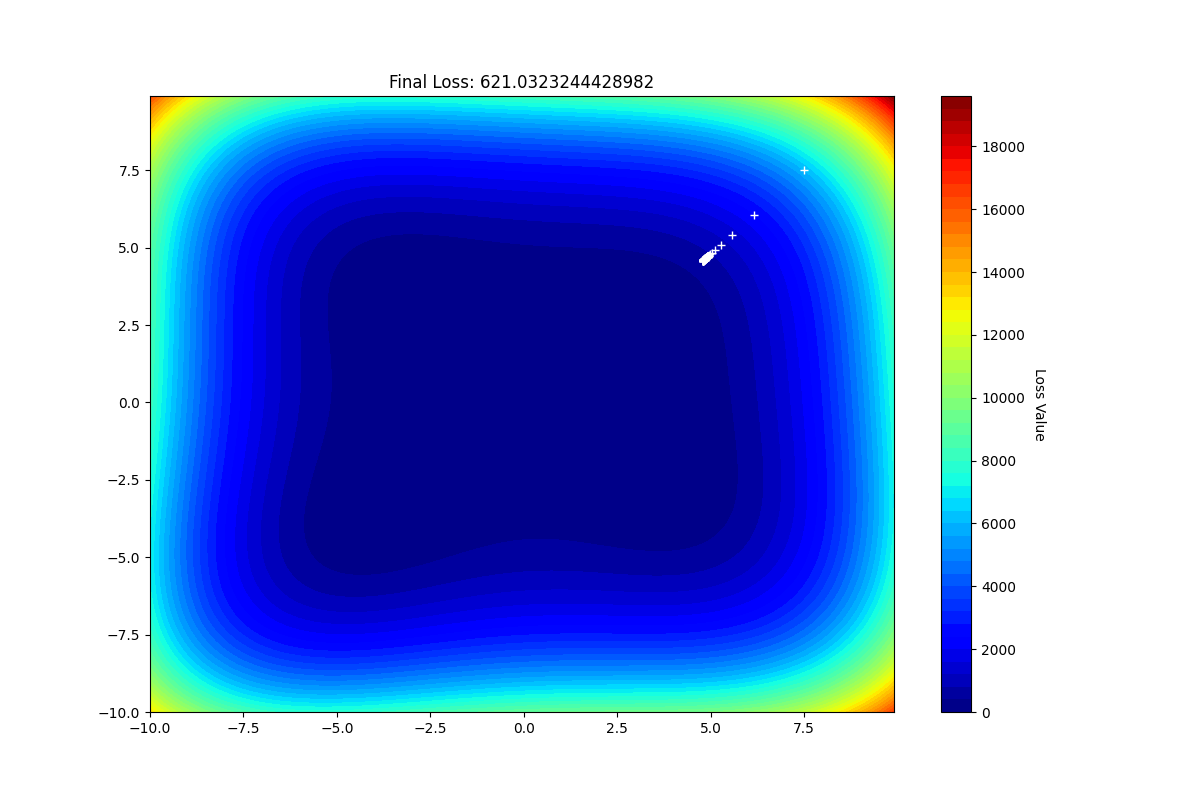
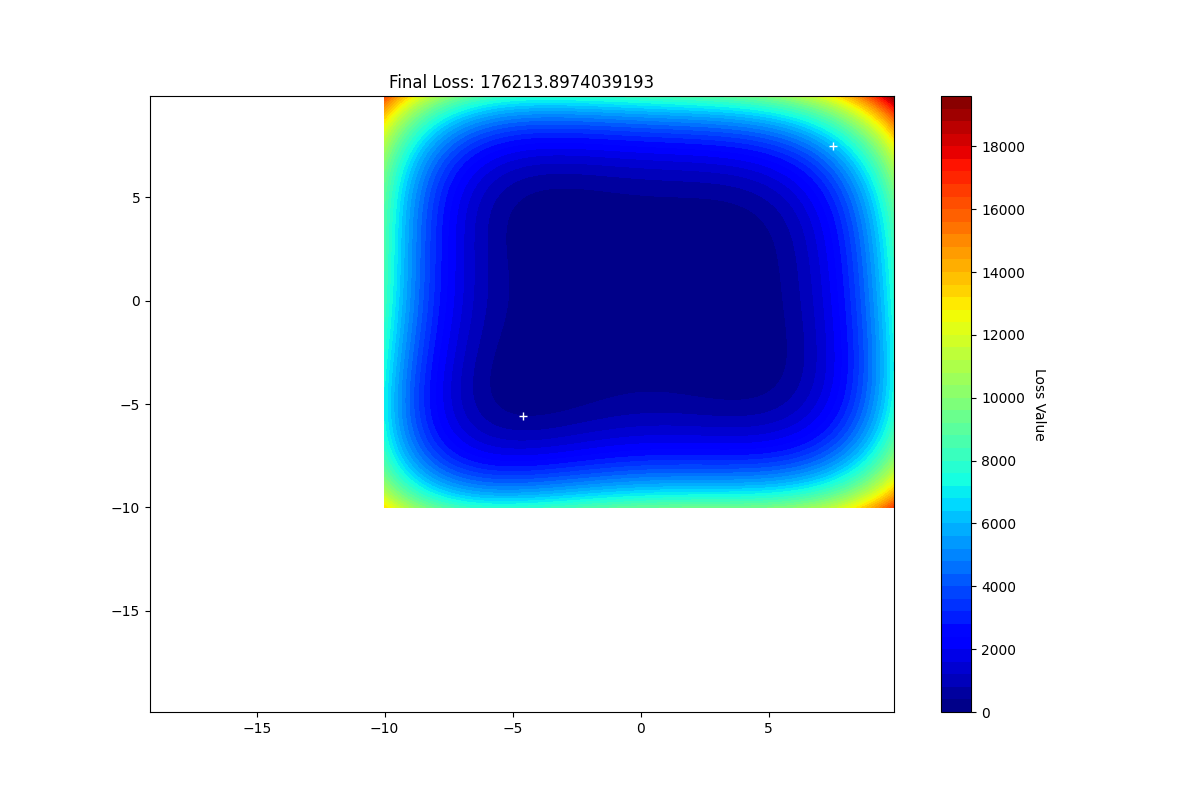
update

diff --git a/learning-rate/demo.py b/learning-rate/demo.py
@@ -47,7 +47,10 @@ def one_exp(
     cbar.set_label('Loss Value', rotation=270, labelpad=15)
     
     for i, (x_c, y_c) in enumerate(coord):
-        plt.plot(x_c, y_c, '+', color=p_color)
+        if i == len(coord) - 1:
+            plt.plot(x_c, y_c, 'x', color='red')
+        else:
+            plt.plot(x_c, y_c, 'x', color=p_color)
     plt.title(f"Final Loss: {loss[-1]}")
     if save_img_path is not None:
         plt.savefig(save_img_path)

diff --git a/learning-rate/readme.md b/learning-rate/readme.md
@@ -11,10 +11,10 @@ more complex loss functions and interesting ideas are welcomed.
   - [Experiment Result](#experiment-result)
     - [The behavior of different optimizer on those functions.](#the-behavior-of-different-optimizer-on-those-functions)
     - [Different beta value of adam in loss2](#different-beta-value-of-adam-in-loss2)
-    - [Different beta value of adam in himmelblau](#different-beta-value-of-adam-in-himmelblau)
+    - [Explore of adam in himmelblau function](#explore-of-adam-in-himmelblau-function)
+    - [Explore Adam in rastrigin function](#explore-adam-in-rastrigin-function)
     - [Different steps in rastrigin of SGD](#different-steps-in-rastrigin-of-sgd)
     - [Different init value of complex](#different-init-value-of-complex)
-    - [Different beta value of momentum in himmelblau](#different-beta-value-of-momentum-in-himmelblau)
     - [Different lr of SGD in mccormick](#different-lr-of-sgd-in-mccormick)
   - [Usage](#usage)
   - [Citation](#citation)
@@ -24,11 +24,11 @@ more complex loss functions and interesting ideas are welcomed.
 
 
 ## TODO
-- **Fix Adam result in experiment result table.**
 - stable the adam optimzier. Exist many numberical problem.
 - add Adamw optimizer
 - add nestrove optimizer
 - generate gif
+- document
 
 ## Some Complex function(x, y) visualization.
 
@@ -146,35 +146,101 @@ Let `lr=0.01, beta1=0.81, beta2=0.999`.
 
 **We make it.** My guess is right. But this also proves that, no matter how we tune the parameters, Adam converges slower than SGD on simple problems. Perhaps there is a better way to make Adam work better in such straightforward cases, or perhaps not, but I don't know it for now.
 
+### Explore of adam in himmelblau function
+The above experiment result show that Adam does not converge in himmelblau function. So the first I want to lower the learning rate.
 
+**1. lower learning rate**
+Let `beta1=0.9, beta2=0.999, epochs=200`.
+| lr=1e-4 | lr=3e-4 | lr=1e-5 | lr=3e-5 |
+|----|----|----|----|
+| <img src='./imgs/tune_adam/himmelblau_Adam_0.0001_200.png'> | <img src='./imgs/tune_adam/himmelblau_Adam_0.0003_200.png'> | <img src='./imgs/tune_adam/himmelblau_Adam_1e-05_200.png'> | <img src='./imgs/tune_adam/himmelblau_Adam_3e-05_200.png'> |
 
-### Different beta value of adam in himmelblau
+Learning rate has an important influence on this optimizationi process. 1e-4 is a better choice.
 
+### Explore Adam in rastrigin function
 
+"The Rastrigin function has many local optima, making it a challenging optimization problem. Now, let's see if Adam can optimize this problem effectively."
+
+**1. Increase Epochs**
+The above experimental result shows that Adam can reach the optimal point if we increase epochs. Let's give it a try. Let: 'lr=0.01, epochs=300, init_x=5, init_y=5, beta1 in Adam is 0.9, beta2 in Adam in 0.999.'
+
+| epochs=300 | epochs=600 |
+|----|----|
+| <img src='./imgs/tune_adam/rastrigin_Adam_0.01_300.png'> | <img src='./imgs/tune_adam/rastrigin_Adam_0.01_600.png'> |
+
+As we can see, increasing the epochs is not helpful. Another singal that experimental result shows is Adam may not have enough momentum to reach the optimal. Let's tune the beta1 parameter.
+
+**2. Increase beta1**
+
+Let: `lr=0.01, epochs=300, init_x=5, init_y=5, beta2=0.999.`
+
+| beta1=0.91 | beta1=0.92 | beta1=0.93 | beta1=0.94 |
+|----|----|----|----|
+| <img src='./imgs/tune_adam/rastrigin_Adam_0.01_0.91_0.999_300.png'> | <img src='./imgs/tune_adam/rastrigin_Adam_0.01_0.92_0.999_300.png'> | <img src='./imgs/tune_adam/rastrigin_Adam_0.01_0.93_0.999_300.png'> | <img src='./imgs/tune_adam/rastrigin_Adam_0.01_0.94_0.999_300.png'> |
+
+| beta1=0.95 | beta1=0.96 | beta1=0.97 | beta1=0.98 |
+|----|----|----|----|
+| <img src='./imgs/tune_adam/rastrigin_Adam_0.01_0.95_0.999_300.png'> | <img src='./imgs/tune_adam/rastrigin_Adam_0.01_0.96_0.999_300.png'> | <img src='./imgs/tune_adam/rastrigin_Adam_0.01_0.97_0.999_300.png'> | <img src='./imgs/tune_adam/rastrigin_Adam_0.01_0.98_0.999_300.png'> |
+
+It seems that `beta1=0.98` is a better choice. Let's give it a fine-grained try. 
+
+| beta1=0.98 | beta1=0.983 | beta1=0.985 | beta1=0.99 |
+|----|----|----|----|
+| <img src='./imgs/tune_adam/rastrigin_Adam_0.01_0.98_0.999_300.png'> | <img src='./imgs/tune_adam/rastrigin_Adam_0.01_0.983_0.999_300.png'> | <img src='./imgs/tune_adam/rastrigin_Adam_0.01_0.985_0.999_300.png'> | <img src='./imgs/tune_adam/rastrigin_Adam_0.01_0.99_0.999_300.png'> |
+
+The above table experiments proves that Adam may not have enough momentum to reach the optimal is correct. **Another noteworthy detail is just a slight change of beta1 can make a significant difference.**
 
 
 ### Different steps in rastrigin of SGD
 
 ### Different init value of complex
 
-### Different beta value of momentum in himmelblau
-
-
-
 ### Different lr of SGD in mccormick
 
 ## Usage
 
+**1. Clone the repository**
+
+```bash
+git clone git@github.com:AllenWrong/From-Scratch.git
+cd From-Scratch/learning-rate
+```
+
+**2. Run the Following command to have a first try**
+
+```bash
+python demo.py \
+  --opt SGD \
+  --loss_fn loss1 \
+  --lr 1e-2 \
+  --epochs 200 \
+  --r_min -10 \
+  --r_max 10 \
+  --init_x 5 \
+  --init_y 5
+```
+
+The output images are saved in `./imgs` directory.
+
+**3. Run the following command to plot a function contour**
+
+```bash
+python show_contour.py \
+  --fn loss1 \
+  --rmin -10 \
+  --rmax 10
+```
+
 ## Citation
 
 ```
-@misc{xxx,
+@misc{Explore the Behavior of Optimizer,
   author = {Zhongchao, Guan},
-  title = {xxx},
+  title = {Explore the Behavior of Optimizer},
   year = {2023},
   publisher = {GitHub},
   journal = {GitHub repository},
-  howpublished = {\url{https://github.com/AllenWrong/}},
+  howpublished = {\url{https://github.com/AllenWrong/From-Scratch/learning-rate}},
 }
 ```
 
